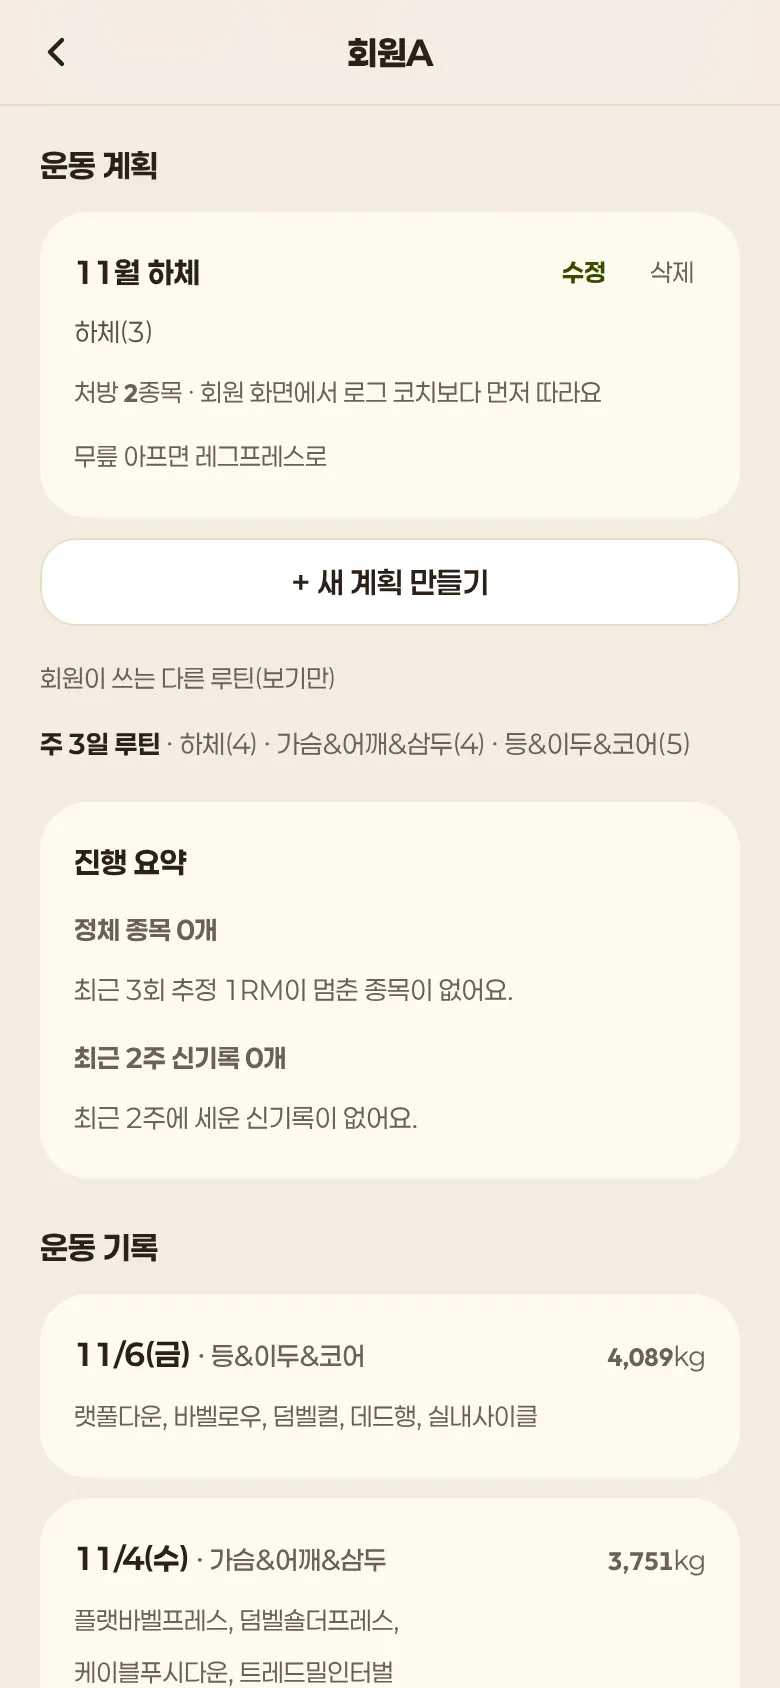
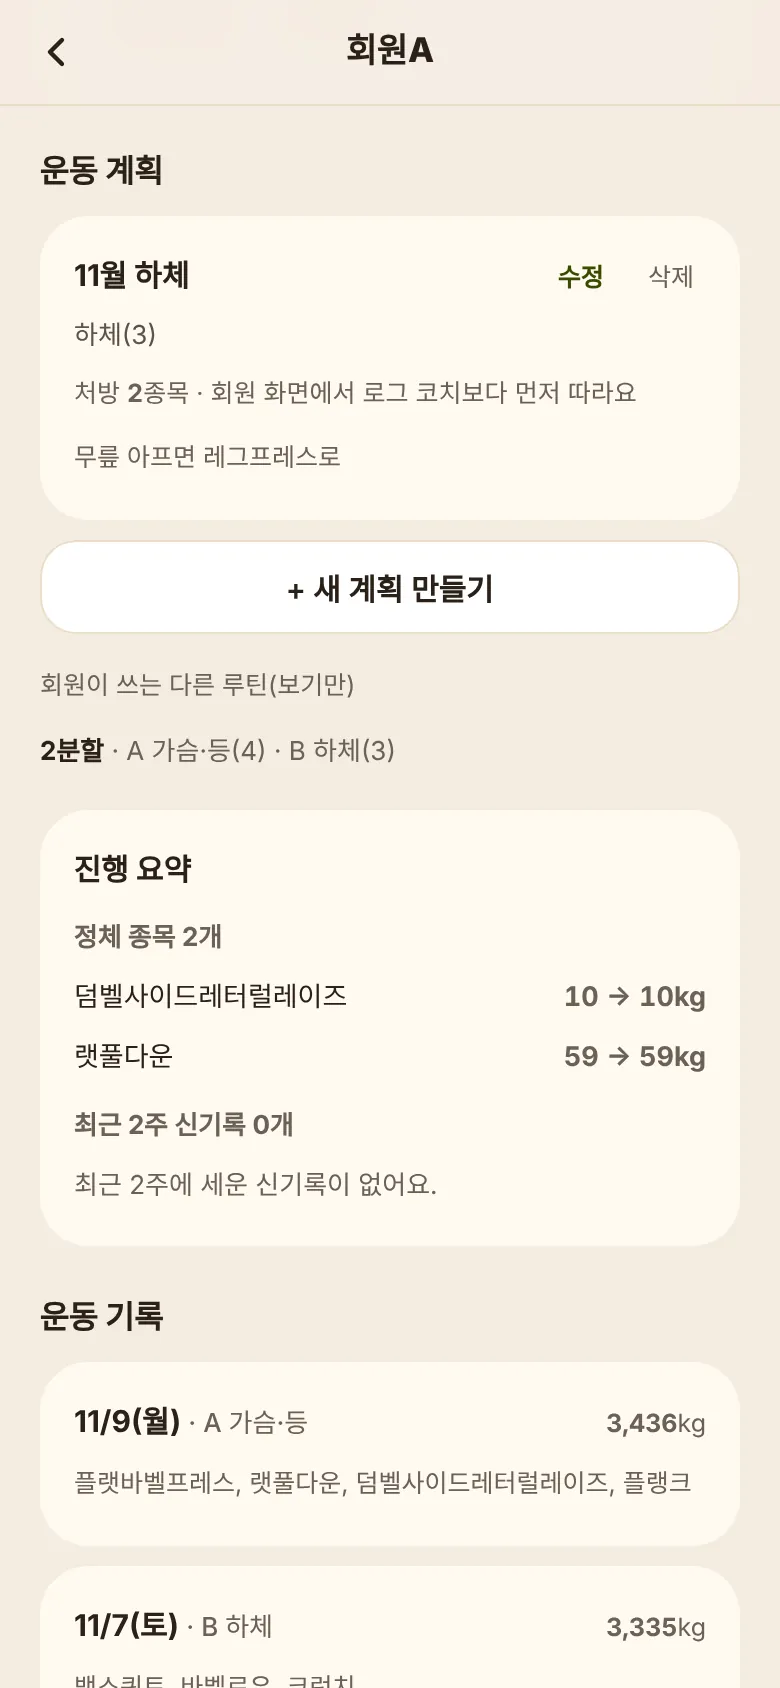
홍보 페이지 캡처 최신화: 트레이너·회원 처방 화면 다시 찍기, 근육 그림·체중 추이 소개 추가
Claude-Session: https://claude.ai/code/session_01KGz5zPYeKa3pP3q5ULu5w4

diff --git a/public/intro/index.html b/public/intro/index.html
@@ -296,6 +296,8 @@ p,dd,.why,.foot{text-wrap:pretty}
     <div class="feat rv"><div class="txt"><div class="n">03</div><h3>끝나면<br>한 장으로 정리</h3><p>운동 시간·볼륨(들어 올린 총무게)·신기록·레벨 진행을 보여 주고, 오늘 한 부위에 맞는 쿨다운 스트레칭도 추천해요.</p><ul><li>신기록 알림</li><li>레벨·시즌</li></ul></div><div class="phone"><div class="screen"><img class="on" loading="lazy" src="/intro/img/cap-done.webp" alt="운동 완료 요약"></div></div></div>
     <div class="feat rev rv"><div class="txt"><div class="n">04</div><h3>캘린더에서<br>한 달이 한눈에</h3><p><span class="s">날짜마다 운동한 부위와 세트가 색으로 쌓여요.</span><span class="s">지난 기록도 캘린더에서 바로 고칠 수 있어요.</span></p><ul><li>부위별 색 표시</li><li>지난 기록 추가·수정</li></ul></div><div class="phone"><div class="screen"><img class="on" loading="lazy" src="/intro/img/cap-calendar.webp" alt="캘린더 화면"></div></div></div>
     <div class="feat rv"><div class="txt"><div class="n">05</div><h3>기록이 쌓이면<br>리포트가 보여요</h3><p><span class="s"><span class="k">이번 주 요약과 건강 체력 4가지부터</span> <span class="k">근육별 주간 세트, 근력 추이,</span> <span class="k">기록이 제자리인(정체) 종목까지</span> <span class="k">한 화면에서 봐요.</span></span></p><ul><li>근육별 주간 세트</li><li>근력 추이·제자리 종목 찾기</li><li>최근 개인 기록</li></ul></div><div class="phone"><div class="screen"><img class="on" loading="lazy" src="/intro/img/cap-report.webp" alt="리포트 화면: 이번 주 요약과 건강 체력 4가지"></div></div></div>
+    <div class="feat rev rv"><div class="txt"><div class="n">06</div><h3>이번 주 쓴 근육을<br>그림으로</h3><p><span class="s"><span class="k">이번 주 한 세트가</span> <span class="k">어느 근육에 들어갔는지</span> <span class="k">앞·뒤 몸 그림에 색으로 보여요.</span></span><span class="s"><span class="k">많이 한 곳은 진하게,</span> <span class="k">아직 안 한 곳은 회색이라</span> <span class="k">빠진 부위가 바로 보여요.</span></span></p><ul><li>적정 세트를 채우면 진하게</li><li>용어는 눌러서 뜻 보기</li></ul></div><div class="phone"><div class="screen"><img class="on" loading="lazy" src="/intro/img/cap-muscle.webp" alt="리포트 화면: 근육별 주간 세트와 앞·뒤 근육 그림"></div></div></div>
+    <div class="feat rv"><div class="txt"><div class="n">07</div><h3>몸무게는<br>숫자보다 흐름으로</h3><p><span class="s"><span class="k">오늘 체중을 적으면</span> <span class="k">3개월·1년 그래프로 이어져요.</span></span><span class="s"><span class="k">하루하루 오르내림보다</span> <span class="k">한 달 전과 비교한 변화를 봐요.</span></span></p><ul><li>MY 프로필 몸무게와 함께 바뀜</li><li>PT 회원은 담당 트레이너도 함께 봐요</li></ul></div><div class="phone"><div class="screen"><img class="on" loading="lazy" src="/intro/img/cap-weight.webp" alt="리포트 화면: 체중 추이 그래프"></div></div></div>
   </div>
 </section>
 

diff --git a/CLAUDE.md b/CLAUDE.md
@@ -219,7 +219,7 @@
 - 홈 화면 설치 안내(2026-10-31, `InstallBanner.jsx`): 설치 신호(beforeinstallprompt)가 오면 "설치" 버튼, 없으면 OS·브라우저별 수동 경로(iOS 사파리·크롬 공유→홈 화면에 추가, 기타 iOS는 사파리 안내, 안드로이드 삼성·파이어폭스·웨일·크롬 메뉴, 맥 사파리 Dock). 안드로이드·PC는 3초 기다린 뒤 수동 안내, PC 파이어폭스 등은 표시 안 함. 닫으면 7일 숨김, standalone·인앱에선 표시 안 함.
 - **홍보 페이지** `/intro/`(2026-10-29, 2026-10-30 전면 개편): `public/intro/index.html` 단일 정적 파일(인라인 CSS/JS, 앱 번들과 분리). 구성: 전면 사진 히어로 → 흐름 표(계획은 나 또는 트레이너가 → 기록 → 기준은 지난번의 나 → 다음 목표) → 기능 5개(큰 휴대폰 화면 지그재그: 오늘 목표·자동 휴식·완료 요약·캘린더·리포트) → 점진적 과부하 데모(utils/strength.js 규칙과 동일) → 기록 방식(리스트형/포커스형) → 트레이너 → FAQ. 섹션별 `data-tone`으로 다크·베이지 교차. 이미지 경로는 반드시 절대 경로 `/intro/img/…`(Vercel은 `/intro`를 슬래시 없이도 열어 상대 경로가 깨짐, 2026-10-31). 사진 `img/photo-*.webp`(Unsplash 무료 라이선스, 사진 속 상표 로고는 지움), 앱 화면 `img/cap-*.webp`(목업 데이터 캡처 - 실제 사용자 기록 금지, 앱 폰트가 적용됐는지 확인: 캡처 브라우저는 서비스워커 차단), 로고는 `/icon-192.png`, 공유 이미지 `og.png`.
   - 문구 원칙: PT를 낮추지 않는다("PT 없이도" 금지) - 혼자 운동하는 날의 기록 도구, 어려우면 트레이너를 권한다. 계획(분할 예시·트레이너 루틴)을 깎아내리지 않는다("짜준 운동 대신" 금지, 2026-10-31 - 초보에게는 짜준 계획이 필요). 다른 앱 이름을 쓰지 않는다. "무료" 표현 쓰지 않음(헬스장 회원용, 2026-10-31). 시작하기 옆 헬스장 네이버 블로그(blog.naver.com/bodytailor)·인스타그램(instagram.com/body_tailor_pt) 버튼. 아직 없는 기능(회원 승인·트레이너 연동)은 만들기 전까지 소개하지 않는다. 종목 수·성취 수 같은 숫자로 압도하지 않고 쉽게. 근거 없는 사용자 수·후기 금지. ksa-on.space와 같은 레이아웃(좌 글·우 휴대폰 히어로, 휴대폰 주변 떠다니는 배지, 아이콘 카드 3열)은 쓰지 않는다. 앱 기능·규칙이 바뀌면 문구·데모도 함께 맞춘다.
-  - **줄바꿈(2026-10-31 사용자 지적·미리보기 B 확정)**: 문장 중간("오늘 몇 / kg")에서 끊기지 않게 말덩이를 `<span class="k">`로 묶는다(그 단위로만 줄바꿈). 문장(`.s`)은 이어 쓰고, 뜻이 바뀌는 곳에서만 `.s.nl`로 새 줄 - 문장마다 새 줄은 줄이 너무 많아져 쓰지 않는다. 새 문구도 같은 방식. **`.k`/`.s` 묶음은 화면에 보이는 본문에만** 넣는다(meta·title·alt 같은 속성값이나 `<script>` 문자열 안에 넣으면 태그가 그대로 노출됨, 2026-10-31 사고). 일괄 치환 대신 본문 요소만 고친다. 과부하 데모의 '지난번 기록'은 앱 입력 화면(±)처럼 보이지 않게 기록 표기(60kg × 9회, 횟수만 선택). '헬스장 인터넷이 약하면요?' FAQ는 넣지 않는다. 과부하 데모는 숫자를 고르는 입력 대신 예시 4가지 자동 전환(누르면 선택). 기록 방식은 휴대폰에서 탭 → 미리보기 → 설명 순서. 섹션 배경(2026-11-01 사용자 확정): 섹션은 투명, 화면 전체 배경색(body)을 스크롤 위치에 따라 검정·베이지 사이로 연속 보간(경계가 화면 55% 지점을 지나는 동안 화면 높이 절반에 걸쳐 섞음 - 화면 전체가 환해지는 느낌). 사진 섹션 가장자리는 mask로 투명하게 녹임. 경계 그라데이션 띠(.fade) 방식은 환해지는 느낌이 없어 폐기. 구성에 '운동을 돕는 것들'(목표 맞춤·가이드·스트레칭·레벨) 표, PT 섹션에 PT 일정·트레이너 소개, FAQ에 회원권 기간. (2026-11-07) '로그 코치' 섹션(#coach: 질문 10개 주간 프로그램 cap-coach, 건강 체력 4가지·체력 점검 cap-fitness)을 과부하 데모 다음에, PT 섹션에 '트레이너 처방이 먼저예요', FAQ '로그 코치와 트레이너 처방이 다르면요?'. 캡처는 전체 앱 목업 하네스에서 390×844·2배(폰트는 하네스가 로컬 파일로 대신 제공 - Paperlogy는 github projectnoonnu/2408-3 v1.0 클론, Outfit·Pretendard는 npm 패키지).
+  - **줄바꿈(2026-10-31 사용자 지적·미리보기 B 확정)**: 문장 중간("오늘 몇 / kg")에서 끊기지 않게 말덩이를 `<span class="k">`로 묶는다(그 단위로만 줄바꿈). 문장(`.s`)은 이어 쓰고, 뜻이 바뀌는 곳에서만 `.s.nl`로 새 줄 - 문장마다 새 줄은 줄이 너무 많아져 쓰지 않는다. 새 문구도 같은 방식. **`.k`/`.s` 묶음은 화면에 보이는 본문에만** 넣는다(meta·title·alt 같은 속성값이나 `<script>` 문자열 안에 넣으면 태그가 그대로 노출됨, 2026-10-31 사고). 일괄 치환 대신 본문 요소만 고친다. 과부하 데모의 '지난번 기록'은 앱 입력 화면(±)처럼 보이지 않게 기록 표기(60kg × 9회, 횟수만 선택). '헬스장 인터넷이 약하면요?' FAQ는 넣지 않는다. 과부하 데모는 숫자를 고르는 입력 대신 예시 4가지 자동 전환(누르면 선택). 기록 방식은 휴대폰에서 탭 → 미리보기 → 설명 순서. 섹션 배경(2026-11-01 사용자 확정): 섹션은 투명, 화면 전체 배경색(body)을 스크롤 위치에 따라 검정·베이지 사이로 연속 보간(경계가 화면 55% 지점을 지나는 동안 화면 높이 절반에 걸쳐 섞음 - 화면 전체가 환해지는 느낌). 사진 섹션 가장자리는 mask로 투명하게 녹임. 경계 그라데이션 띠(.fade) 방식은 환해지는 느낌이 없어 폐기. 구성에 '운동을 돕는 것들'(목표 맞춤·가이드·스트레칭·레벨) 표, PT 섹션에 PT 일정·트레이너 소개, FAQ에 회원권 기간. (2026-11-07) '로그 코치' 섹션(#coach: 질문 10개 주간 프로그램 cap-coach, 건강 체력 4가지·체력 점검 cap-fitness)을 과부하 데모 다음에, PT 섹션에 '트레이너 처방이 먼저예요', FAQ '로그 코치와 트레이너 처방이 다르면요?'. (2026-11-11) 기능 06 근육 그림(cap-muscle)·07 체중 추이(cap-weight) 추가, cap-trainer·cap-ptplan 다시 찍음. 캡처는 전체 앱 목업 하네스에서 390×844·2배(폰트는 하네스가 로컬 파일로 대신 제공 - Paperlogy는 github projectnoonnu/2408-3 v1.0 클론, Outfit·Pretendard는 npm 패키지).
 
 ### 7.4 리포트 · 홈 인사이트
 - **REPORT 구성(2026-10-31 개편, 트레이너·분석 관점)**: 이번 주 요약(`ReportSections.WeekSummaryCard`) → 근육별 주간 세트 → 근력 추이(`StrengthTrendCard`: 종목별 추정 1RM 8주, ±2% 기준 상승·정체·하락) → 정체·회복 → 부위별 주간 세트 8주 표(`WeeklySetsHeatmap`, fractionalSetsByAtom) → 유산소·균형·골밀도 → 최근 개인 기록 → 많이 한 운동(8주 본세트) → 랭킹(상위 10명 + 나, `RankingList`) → 다른 회원들이 즐겨하는 운동. 누적 레이더·회차별 향상 목록은 없앴다(단위 혼합·누적값이라 분석 가치 낮음). 랭킹의 다른 회원 닉네임은 `maskName`(첫 글자 + *)으로만, leaderboard 저장도 가린 닉네임. 앱 문구는 '유저' 대신 '회원'.

diff --git a/CHANGELOG.md b/CHANGELOG.md
@@ -2,6 +2,7 @@
 
 (20줄 초과로 src/App.jsx 상단 주석에서 이 파일로 분리됨)
 
+[2026-11-11] 홍보 페이지 캡처 최신화: 트레이너 회원 화면·회원 처방 화면을 지금 버튼 문구로 다시 찍고, 06 근육 그림·07 체중 추이 기능 소개 추가(목업 데이터) | public/intro/index.html, public/intro/img/cap-trainer·cap-ptplan(교체)·cap-muscle·cap-weight(새).webp
 [2026-11-11] 용어 뜻 보기·관리자 거절 사유 창·옛 종목명 처방(사용자 요청: 용어는 바꾸지 않고 눌러서 뜻 보기): ① 점선 용어를 누르면 말풍선으로 뜻(볼륨·추정 1RM·RIR·본세트·탑세트·백오프세트·주간 세트·정체·디로드·분할·파트, 카드마다 처음 한 번) - HOME·NOTE·완료 요약·REPORT·MY·루틴 만들기·등급 안내, 버튼 '분할운동 템플릿에서 추가' → '분할 예시에서 추가' ② 관리자 거절: 브라우저 prompt 대신 확인창 안 입력칸(사유 선택, 취소하면 거절도 안 함) ③ 트레이너 처방·코치 처방 키도 읽을 때 새 종목명으로 | ui.jsx Term·ConfirmProvider input, utils/glossary.js(새), HomeTab·WorkoutInput·ExerciseCard·SetEditors·WorkoutCompleteModal·ReportSections·InsightCards·MyPageTab·RoutineManager·RoutineSetup·CoachProgramWizard·TierInfoScreen.jsx, AdminDashboard.jsx setStatus, exerciseLibrary.js normalizeExerciseKeyMap, storage.js getRoutineTemplates
 [2026-11-11] 자주 보는 화면 문구 다듬기(사용자 확인 목록 12개): 컨디션 나쁨 안내·트레이너 처방 줄·저장 실패·랭킹 기준·숨찬 운동 기준·로그 코치 꺼짐·화면 꺼짐 방지·담당 트레이너·회원권(MY·HOME 안내 두 곳)·완료 요약 통증·세트 짜는 방식 설명 | WorkoutInput.jsx, ExerciseCard.jsx, hooks/useWorkoutSession.js, ReportTab.jsx, ReportSections.jsx, MyPageTab.jsx, MembershipNotice.jsx, WorkoutCompleteModal.jsx, SetEditors.jsx
 [2026-11-11] 체중 추이·근육 그림 확대·기록 화면 분리(사용자 요청): ① REPORT '체중 추이' 카드(3개월·1년 선 그래프, 한 달 전 대비, 오늘 체중 기록 - 지금 몸무게도 함께 바뀜) + MY 프로필에서 몸무게를 고치면 그날 기록으로 남김(users.weightLog 날짜별 최대 120개, 담당 트레이너도 볼 수 있음) ② 근육 그림: REPORT 근육별 주간 세트에 이번 주 부위를 앞·뒤 그림으로 색칠(적정 이상 진하게·조금 옅게·안 함 회색), 코치 프로그램 결과에 파트마다 그날 쓰는 근육 작은 그림 ③ WorkoutInput.jsx를 화면(약 540줄)·상태와 처리 훅(hooks/useWorkoutSession.js)·헬퍼(workoutSessionHelpers.js)로 나눔(동작 변경 없음) | WeightTrendCard.jsx(새), utils/weightLog.js(새), storage.js recordBodyWeight, MyPageTab.jsx 프로필 저장, ReportTab.jsx, App.jsx(ReportTab onProfileUpdated), firestore.rules(weightLog ≤120), public/privacy/index.html, MuscleMap.jsx MuscleFigures·targetsForExercises·ATOM_FIGURE_IDS, InsightCards.jsx MuscleSetsCard, CoachProgramWizard.jsx ProgramResult, WorkoutInput.jsx, hooks/useWorkoutSession.js(새), components/workoutSessionHelpers.js(새)
